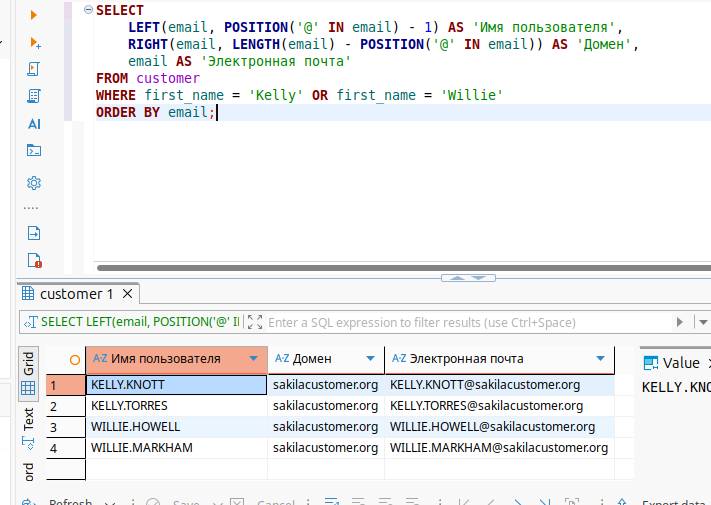
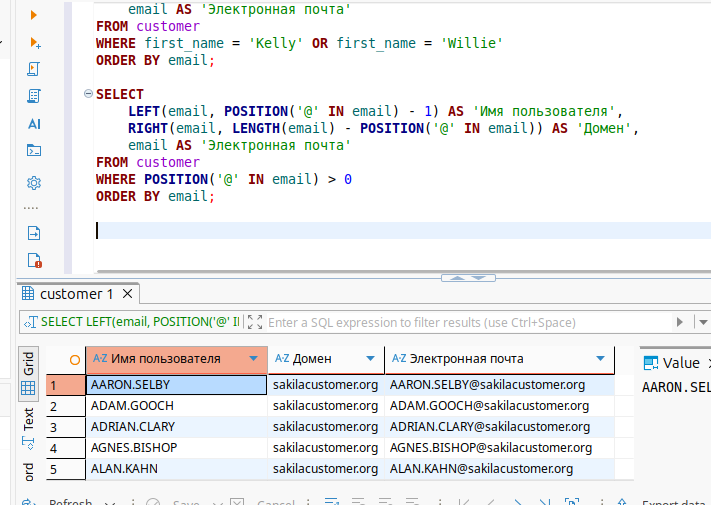
master 6 task 6

diff --git a/README.md b/README.md
@@ -80,9 +80,9 @@ ORDER BY last_name;`
     RIGHT(email, LENGTH(email) - POSITION('@' IN email)) AS 'Домен',
 	email AS 'Электронная почта'		
 FROM customer
-WHERE first_name = 'Kelly' OR first_name = 'Willie'
+WHERE POSITION('@' IN email) > 0
 ORDER BY email;`     
-<img src = "img/3-1.png" width = 60%>  
+<img src = "img/5-1.png" width = 60%>  
 ---
 
 
@@ -91,14 +91,17 @@ ORDER BY email;`
 
 #### Решение 6*.
 Выполним запрос для по условию задания.      
-`SELECT rental_date AS 'дата аренды'
-FROM rental
-ORDER BY rental_date DESC
-LIMIT 5;`     
-<img src = "img/3-1.png" width = 60%>  
+`SELECT
+	CONCAT(
+        UPPER(LEFT(LEFT(email, POSITION('@' IN email) - 1), 1)),
+        LOWER(SUBSTRING(LEFT(email, POSITION('@' IN email) - 1) FROM 2))) AS 'Имя пользователя',
+    CONCAT(
+        UPPER(LEFT(RIGHT(email, LENGTH(email) - POSITION('@' IN email)), 1)),
+        LOWER(SUBSTRING(RIGHT(email, LENGTH(email) - POSITION('@' IN email)) FROM 2))) AS 'Домен',
+	email AS 'Электронная почта'		
+FROM customer
+WHERE POSITION('@' IN email) > 0
+ORDER BY email;`     
+<img src = "img/6-1.png" width = 60%>  
 ---
 
-
-
-[файл в формате Excel](files/task_2.ods)
----
